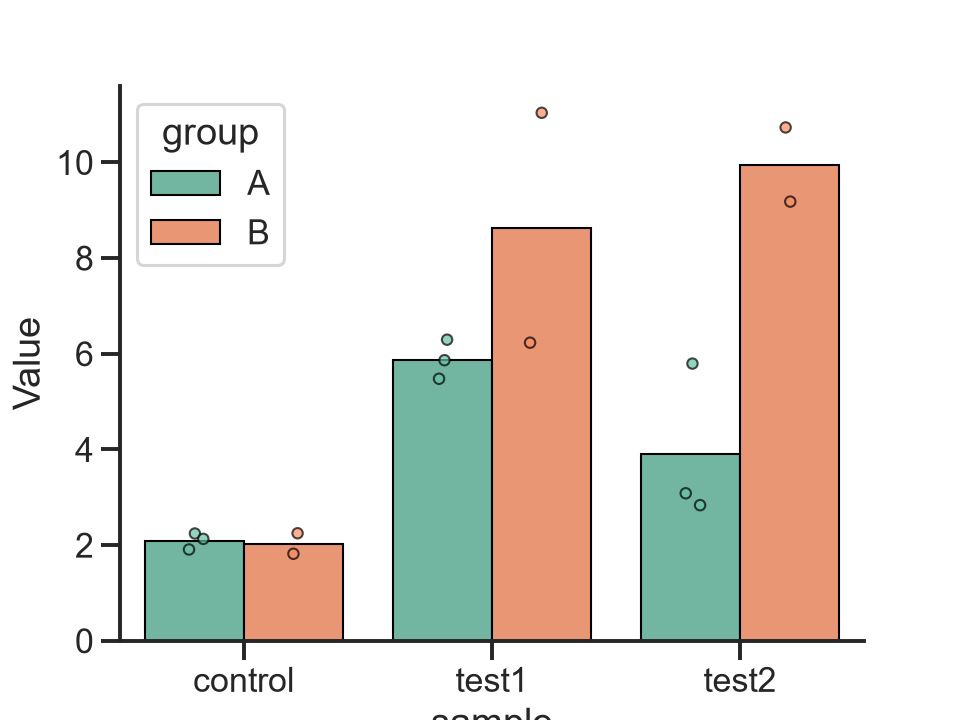
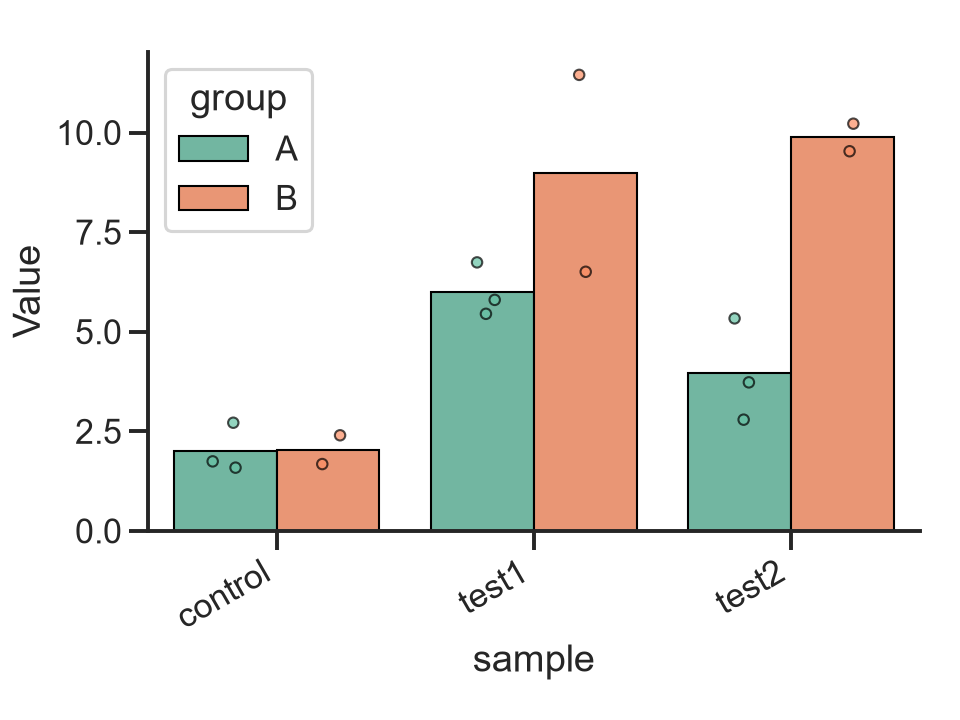
Added tight_layout

diff --git a/quick_example.py b/quick_example.py
@@ -1,6 +1,6 @@
 import matplotlib.pyplot as plt
 import numpy as np
-from aphrodite import bar_point_plot
+from aphrodite import bar_point_plot, rotate_xtick_labels
 
 data = {
     "group": ["A", "A", "A", "B", "B"] * 3,
@@ -10,4 +10,6 @@ data = {
 
 ax = bar_point_plot(data=data, x="sample", y="value", hue="group", legend='brief')
 ax.set(xlabel="sample", ylabel="Value")
+rotate_xtick_labels(ax, 30)
+plt.tight_layout()
 plt.show()

diff --git a/README.md b/README.md
@@ -29,6 +29,7 @@ data = {
 
 ax = bar_point_plot(data=data, x="sample", y="value", hue="group", legend='brief')
 ax.set(xlabel="sample", ylabel="Value")
+plt.tight_layout()
 plt.show()
 ```
 
